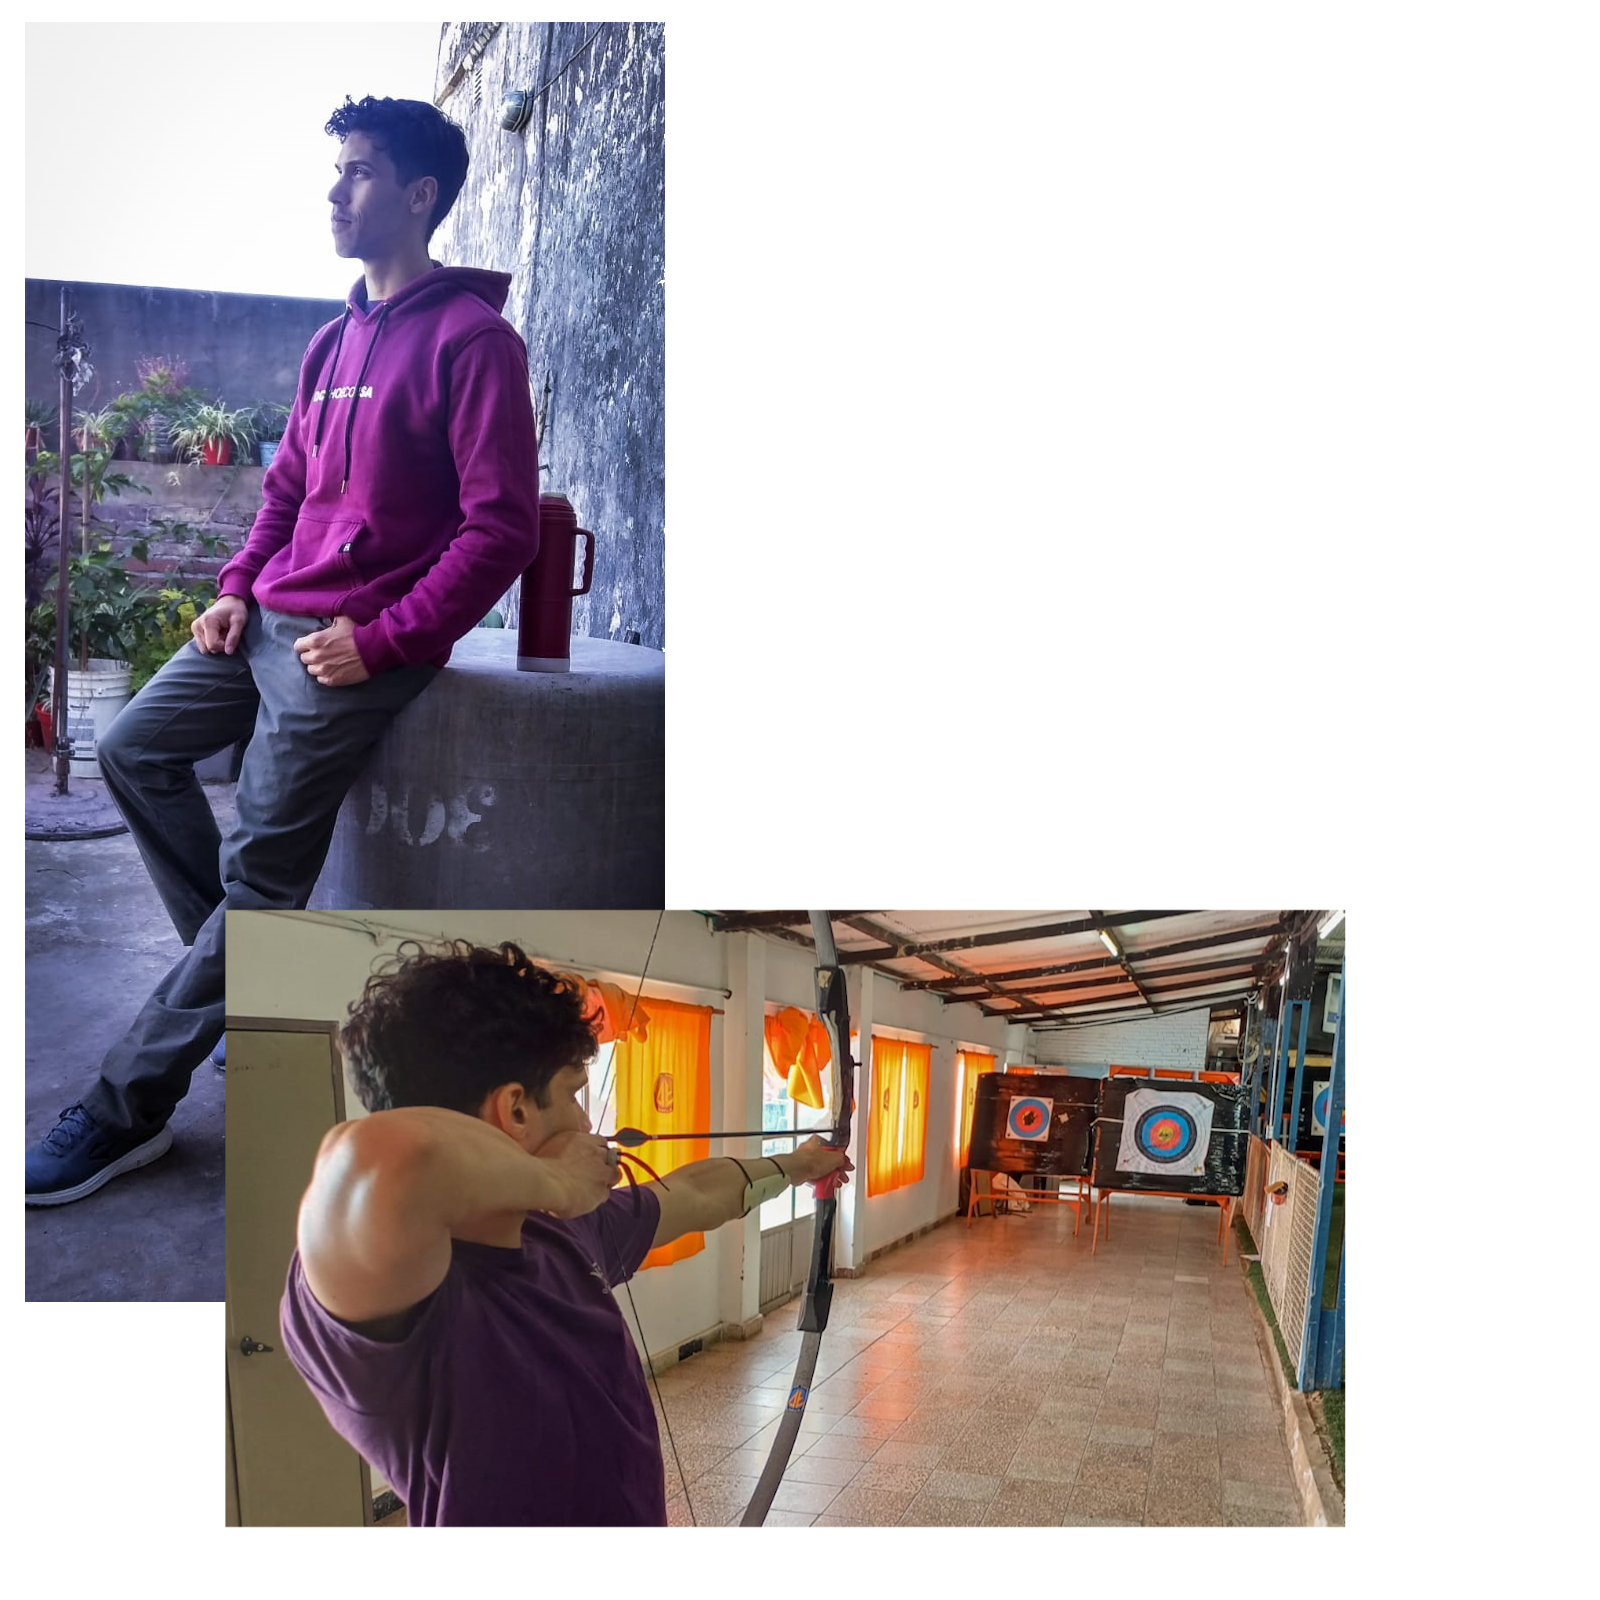
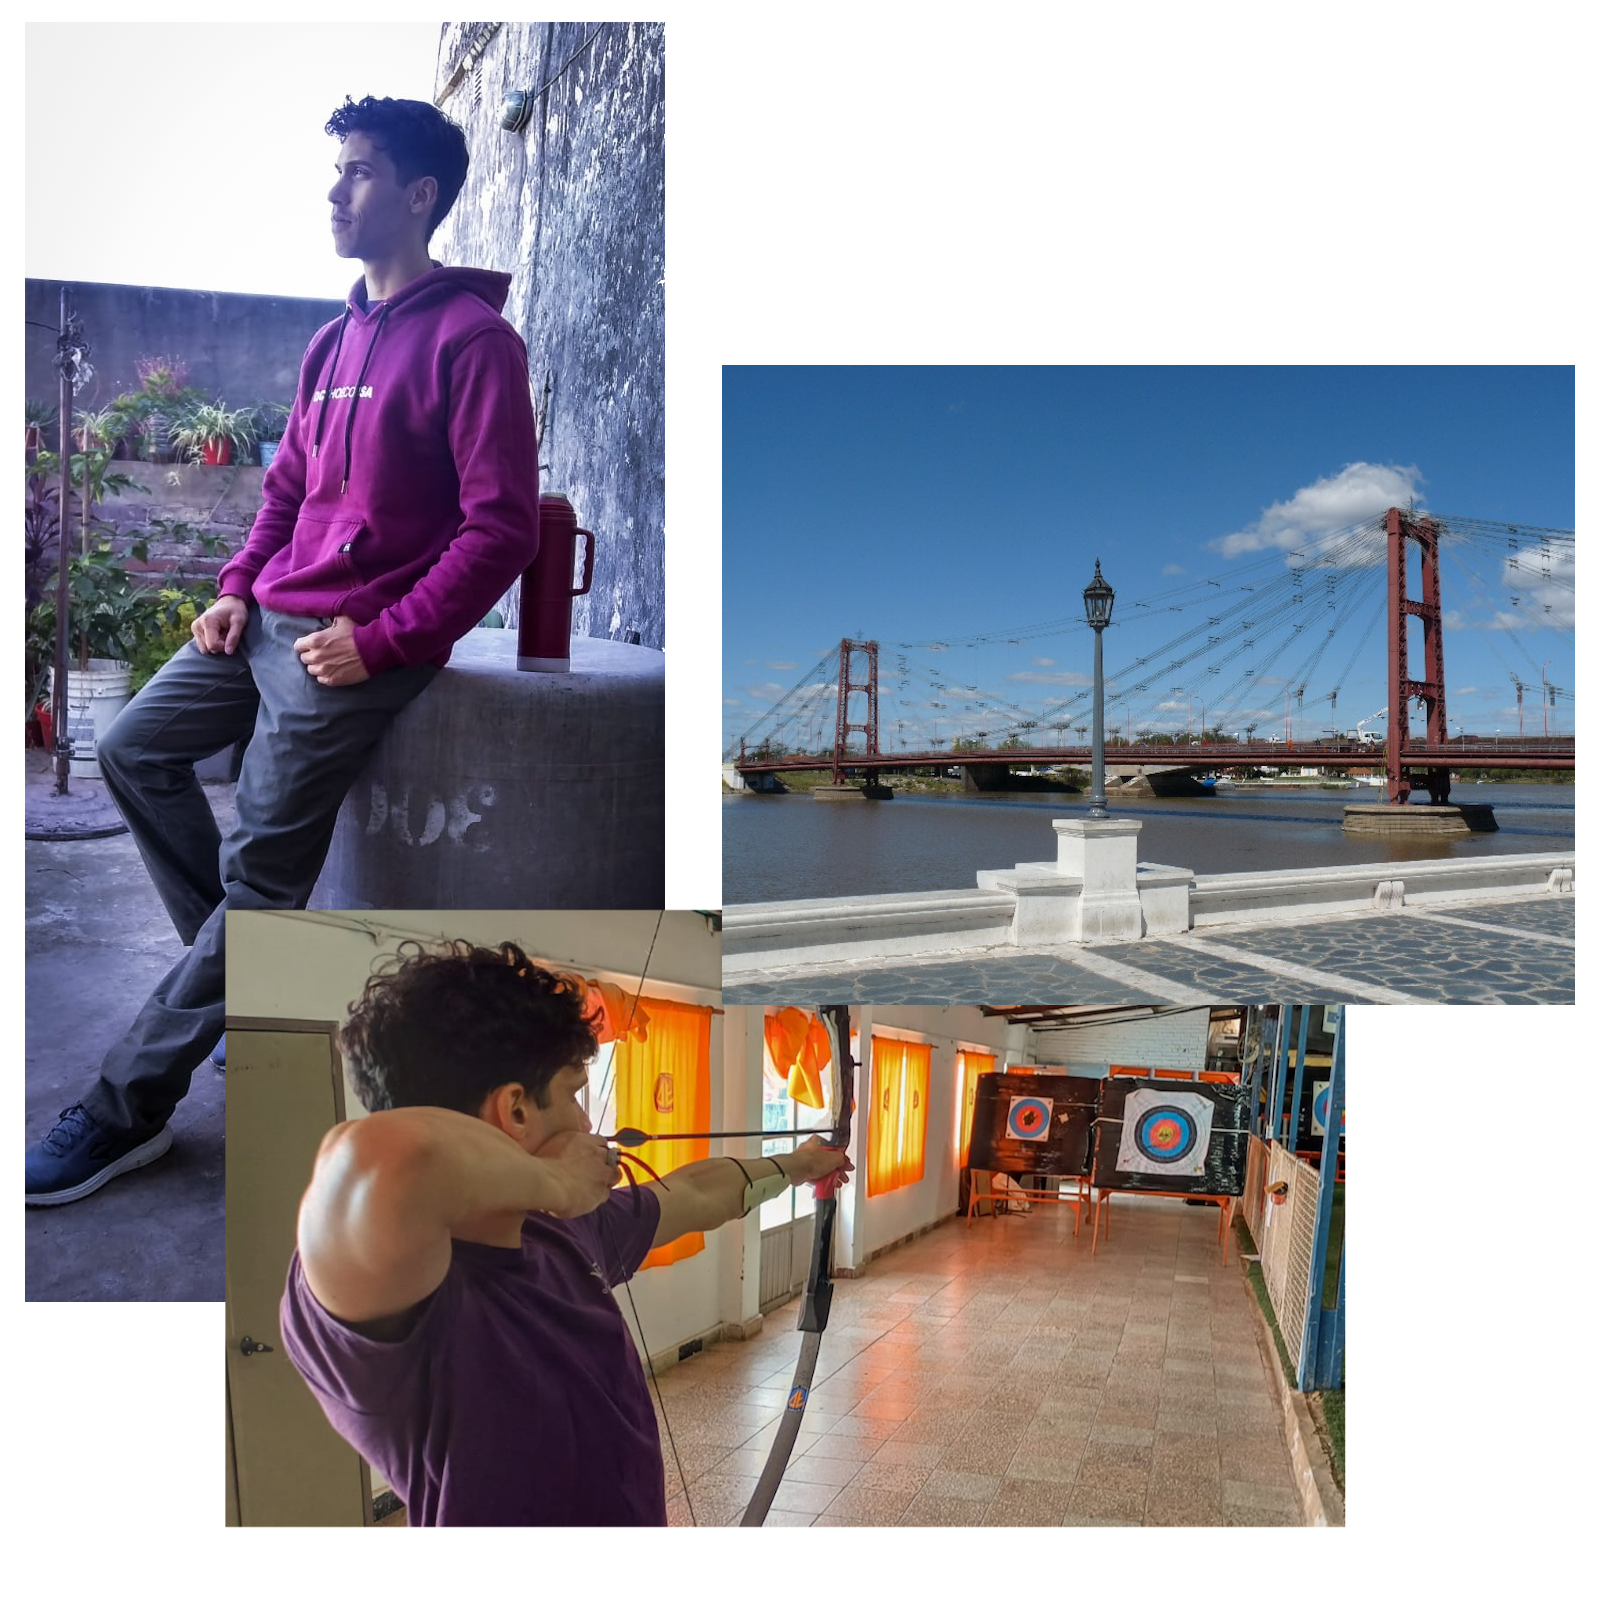
changes in section styles and update of aboutMe img

Changed region(s): [[0.4375, 0.2188, 1.0, 0.625]]

diff --git a/styles/_mainStyles.css b/styles/_mainStyles.css
@@ -18,9 +18,13 @@ main {
         margin-bottom: 2.5rem;
         box-sizing: border-box;
         display: flex;
-        justify-content: space-between;
+        justify-content: space-evenly;
         align-items: center;
         flex-direction: column;
+
+        > h2 {
+            margin-bottom: 16px;
+        }
     }
 }
 

diff --git a/styles/sections_styles/_skillsSection.css b/styles/sections_styles/_skillsSection.css
@@ -1,7 +1,10 @@
 #skills_section {
-  display: block;
   text-align: center;
   font-weight: bold;
+
+  > div {
+    width: 100%;
+  }
 
   .skillLogo {
     gap: 8px;
